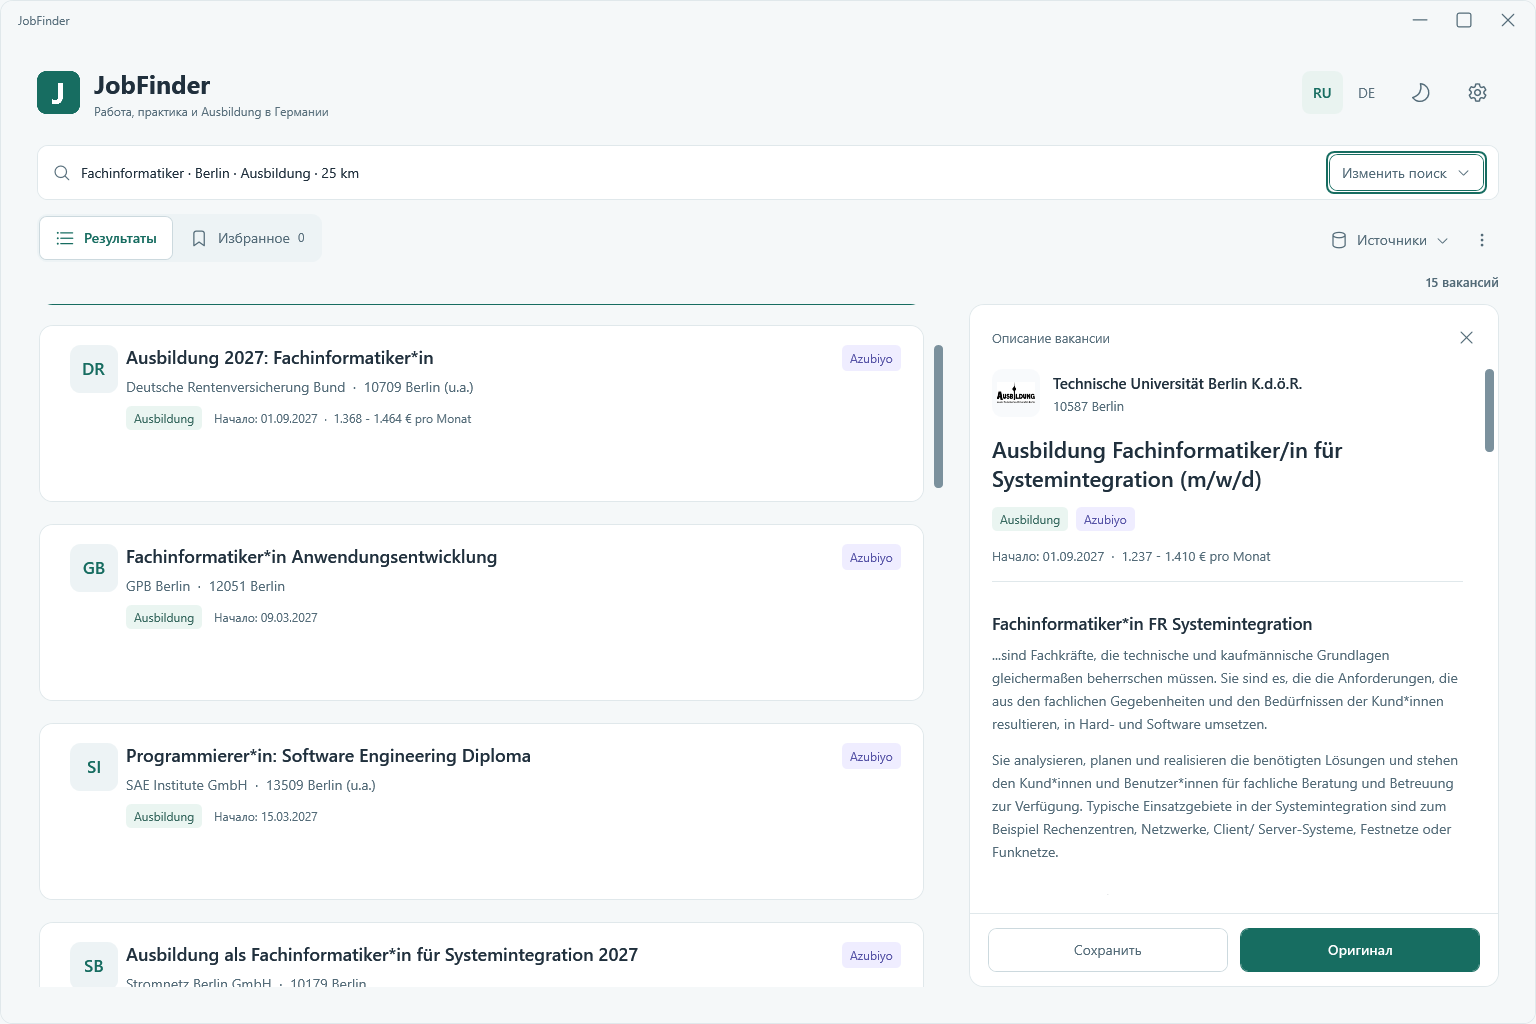
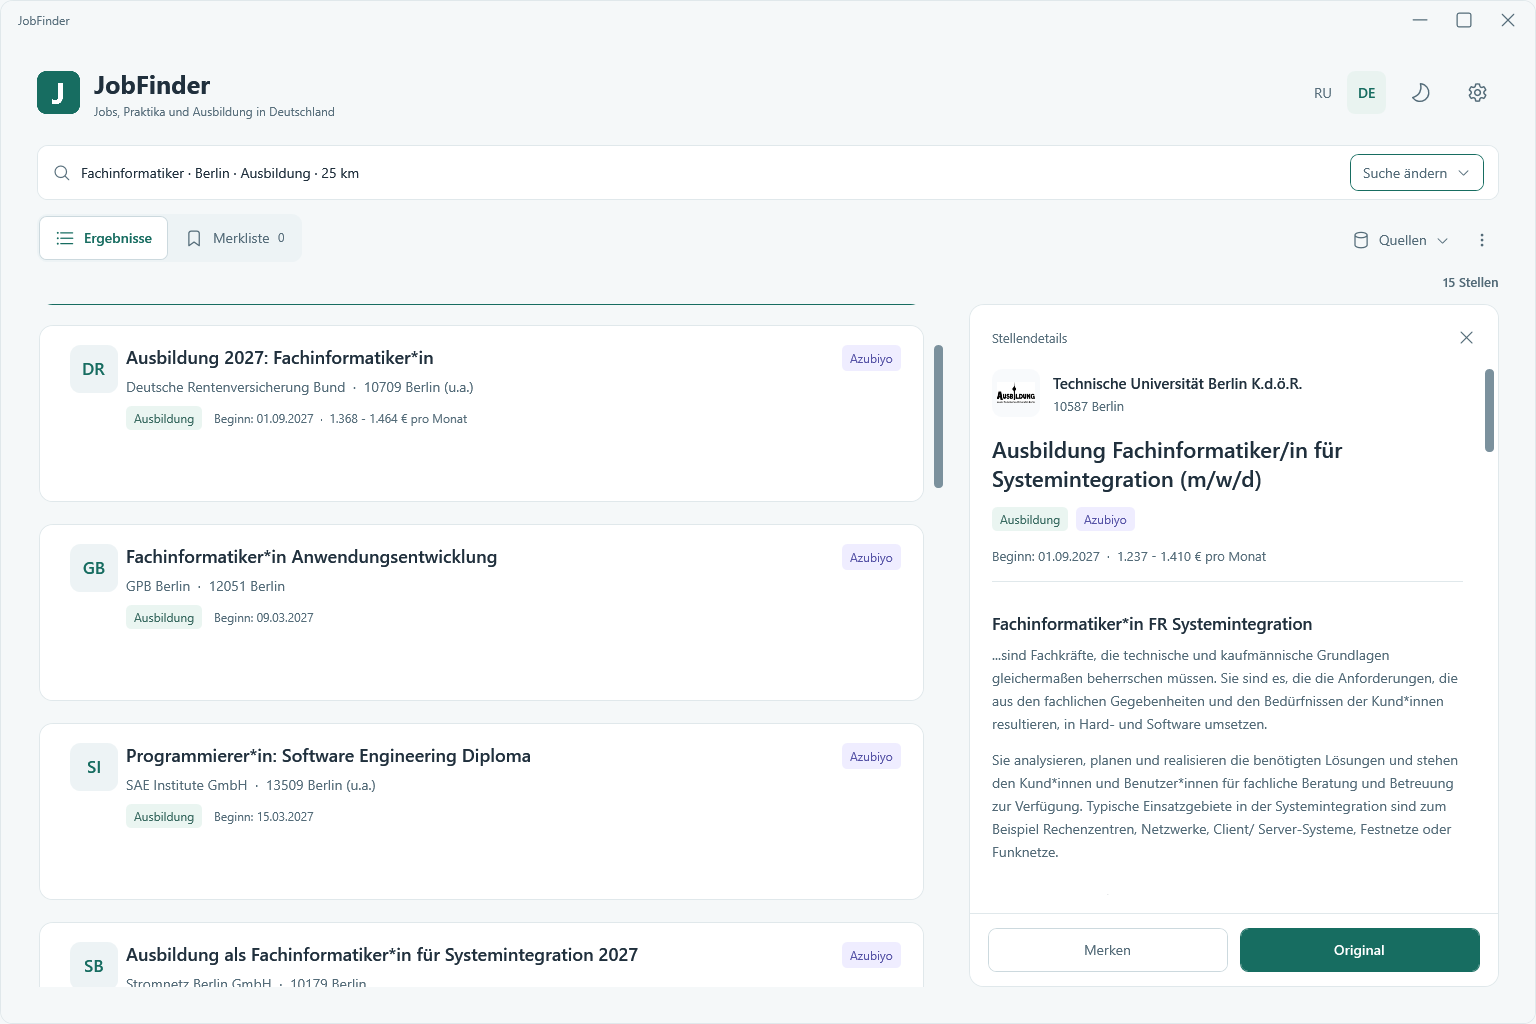
Use German for the product page and fresh application profiles

diff --git a/JobFinder/ViewModel.cs b/JobFinder/ViewModel.cs
@@ -236,7 +236,7 @@ public sealed partial class ViewModel : Observable, IDisposable
         OpenCommand = new(p => { if (p is JobView j) Open(j.Job.Url); });
         CopyCommand = new(p => { if (p is JobView j) { try { Clipboard.SetText(j.Job.Url); Notice = Ui["Copied"]; } catch (System.Runtime.InteropServices.ExternalException) { Notice = Ui["OpenError"]; } } });
         PortalCommand = new(p => { if (p is string id) Open(Links.Portal(id, new(Keyword, City, Radius, Kind))); });
-        LanguageCommand = new(p => { Ui.Language = p?.ToString() ?? "ru"; Profile.Language = Ui.Language; Notice = Ui[IsBusy ? "Searching" : "Ready"]; Save(); Refresh(); foreach (var s in Sources) s.Refresh(); Detail?.Refresh(); RefreshJobs(); });
+        LanguageCommand = new(p => { Ui.Language = p?.ToString() ?? "de"; Profile.Language = Ui.Language; Notice = Ui[IsBusy ? "Searching" : "Ready"]; Save(); Refresh(); foreach (var s in Sources) s.Refresh(); Detail?.Refresh(); RefreshJobs(); });
         ExampleCommand = new(p => { ApplyQuery(p?.ToString() switch { "internship" => new("Design", "", 25, JobKind.Internship), "apprenticeship" => new("Fachinformatiker", "", 25, JobKind.Apprenticeship), _ => new("Developer", "", 25, JobKind.Job) }); _ = SearchAsync(); });
         RemoveSearchCommand = new(_ => { if (SelectedSearch is not null) { SavedSearches.Remove(SelectedSearch); Profile.Searches = SavedSearches.ToList(); _selectedSearch = null; Changed(nameof(SelectedSearch)); Save(); } }, _ => SelectedSearch is not null);
     }

diff --git a/JobFinder.Tests/Program.cs b/JobFinder.Tests/Program.cs
@@ -12,6 +12,12 @@ async Task<SourceFailure> Fails(Func<Task> action, FailureKind kind)
 }
 try
 {
+    Check(new ProfileStore(Path.Combine(Path.GetTempPath(), "jobfinder-locale-" + Guid.NewGuid().ToString("N"))).Load().Language == "de", "German is the default language for a fresh installation");
+    var languageStore = new ProfileStore(Path.Combine(Path.GetTempPath(), "jobfinder-language-choice-" + Guid.NewGuid().ToString("N")));
+    languageStore.Save(new UserProfile { Language = "ru" });
+    Check(languageStore.Load().Language == "ru", "An existing explicit Russian language choice survives the new German default");
+    languageStore.Save(new UserProfile { Language = "unsupported" });
+    Check(languageStore.Load().Language == "de", "An unsupported saved language falls back to German");
     var azubi = AzubiyoSource.Parse(File.ReadAllText(Path.Combine(fixtures, "azubiyo-filtered.txt")), new("https://www.azubiyo.de/ausbildung/berlin/?subject=Fachinformatiker&location=Berlin&radius=25"));
     Check(azubi.Jobs.Count >= 10 && azubi.Jobs.Any(j => j.Title.Contains("Systemintegration") && j.Company.Contains("Universität Berlin") && j.Location.Contains("Berlin")), "Actual Azubiyo title, company, city parsed");
     Check(azubi.Jobs.Any(j => j.Start == "01.09.2027" && j.Salary.Contains('€')), "Training start and salary preserved separately");

diff --git a/JobFinder/CompactSearchVerification.cs b/JobFinder/CompactSearchVerification.cs
@@ -17,6 +17,7 @@ public partial class App
         logos.Seed(page.Jobs[0].LogoUrl, File.ReadAllBytes(Path.Combine(fixtures, "logo-azubiyo.png")));
         var vm = new ViewModel(Path.Combine(isolated, "compact-profile"), testSources: [new FixtureSource("azubiyo", "Azubiyo", JobKind.Apprenticeship, () => page)], detailService: loader, logos: logos);
         var window = TestWindow(vm); window.AutoLoadEnabled = false;
+        check(vm.Ui.IsDe && vm.Profile.Language == "de", "A fresh application opens in German by default");
         check(window.SearchSurface.IsVisible && !window.CompactSearchBar.IsVisible, "Before a first search, the full search form is available");
         vm.ApplyQuery(new("Fachinformatiker", "Berlin", 25, JobKind.Apprenticeship)); await vm.SearchAsync(); await SettleAsync();
         check(!window.SearchSurface.IsVisible && window.EditSearchButton.IsVisible && window.ResultSourcesButton.IsVisible, "A new search collapses the form while editing and filters remain accessible");

diff --git a/JobFinder/Ui.cs b/JobFinder/Ui.cs
@@ -6,8 +6,8 @@ namespace JobFinder;
 public sealed class Ui : INotifyPropertyChanged
 {
     public event PropertyChangedEventHandler? PropertyChanged;
-    private string _language = "ru";
-    public string Language { get => _language; set { _language = value == "de" ? "de" : "ru"; PropertyChanged?.Invoke(this, new("Item[]")); PropertyChanged?.Invoke(this, new(nameof(IsRu))); PropertyChanged?.Invoke(this, new(nameof(IsDe))); } }
+    private string _language = "de";
+    public string Language { get => _language; set { _language = value == "ru" ? "ru" : "de"; PropertyChanged?.Invoke(this, new("Item[]")); PropertyChanged?.Invoke(this, new(nameof(IsRu))); PropertyChanged?.Invoke(this, new(nameof(IsDe))); } }
     public bool IsRu => Language == "ru";
     public bool IsDe => !IsRu;
     public static string AppVersion => UpdateViewModel.FormatVersion(typeof(App).Assembly.GetName().Version ?? new Version(0, 4, 1));

diff --git a/JobFinder.Core/ProfileStore.cs b/JobFinder.Core/ProfileStore.cs
@@ -32,7 +32,7 @@ public sealed class ProfileStore(string directory)
         var profile = JsonSerializer.Deserialize<UserProfile>(File.ReadAllText(file), Json) ?? throw new JsonException();
         if (profile.Schema != 1 || profile.Favorites is null || profile.Searches is null || profile.EnabledSources is null || profile.LastQuery is null) throw new JsonException();
         profile.Favorites = profile.Favorites.Where(j => Links.IsSafe(j.Url) && !string.IsNullOrWhiteSpace(j.Title)).DistinctBy(j => j.Key).ToList();
-        profile.Language = profile.Language == "de" ? "de" : "ru";
+        profile.Language = profile.Language == "ru" ? "ru" : "de";
         profile.Theme = profile.Theme == "light" ? "light" : "dark";
         profile.KnownSourceIds ??= [];
         profile.LastQuery = profile.LastQuery.Clean();

diff --git a/JobFinder.Core/Models.cs b/JobFinder.Core/Models.cs
@@ -55,7 +55,7 @@ public sealed record SavedSearch(string Name, SearchQuery Query);
 public sealed record UserProfile
 {
     public int Schema { get; init; } = 1;
-    public string Language { get; set; } = "ru";
+    public string Language { get; set; } = "de";
     public string Theme { get; set; } = "dark";
     public SearchQuery LastQuery { get; set; } = new();
     public List<string> EnabledSources { get; set; } = SourceCatalog.FeedIds();

diff --git a/README.md b/README.md
@@ -1,60 +1,62 @@
 <p align="center">
-  <img src="https://raw.githubusercontent.com/4ek1st/JobFinder/main/assets/readme/hero.svg" alt="JobFinder — найдите своё место в Германии. Работа, Praktikum и Ausbildung." width="100%">
+  <img src="https://raw.githubusercontent.com/4ek1st/JobFinder/main/assets/readme/hero.svg" alt="JobFinder — finde deinen Platz in Deutschland. Jobs, Praktikum und Ausbildung." width="100%">
 </p>
 
 <p align="center">
-  Ищите вакансии, сравнивайте предложения и сохраняйте то, что подходит вам.<br>
-  Всё в одном спокойном и понятном интерфейсе.
+  Stellen entdecken, Angebote vergleichen und passende Möglichkeiten speichern.<br>
+  Alles in einer übersichtlichen App.
 </p>
 
 <p align="center">
   <a href="https://github.com/4ek1st/JobFinder/releases/latest/download/JobFinder-portable-win-x64.zip">
-    <img src="https://raw.githubusercontent.com/4ek1st/JobFinder/main/assets/readme/download.svg" alt="Скачать JobFinder для Windows" width="306" height="60">
+    <img src="https://raw.githubusercontent.com/4ek1st/JobFinder/main/assets/readme/download.svg" alt="JobFinder für Windows herunterladen" width="306" height="60">
   </a>
-  <br><sub>Windows 10 / 11 · Русский / Deutsch · Без установки</sub>
+  <br><sub>Windows 10 / 11 (64 Bit) · Deutsch / Russisch · Ohne Installation</sub>
 </p>
 
-<p align="center"><sub>Как выглядит JobFinder</sub></p>
+<p align="center"><sub>So sieht JobFinder aus</sub></p>
 
 <picture>
   <source media="(prefers-color-scheme: light)" srcset="https://raw.githubusercontent.com/4ek1st/JobFinder/main/assets/readme/app-light.png">
   <source media="(prefers-color-scheme: dark)" srcset="https://raw.githubusercontent.com/4ek1st/JobFinder/main/assets/readme/app-dark.png">
-  <img src="https://raw.githubusercontent.com/4ek1st/JobFinder/main/assets/readme/app-dark.png" alt="JobFinder: список вакансий слева и подробное описание выбранного предложения справа." width="100%">
+  <img src="https://raw.githubusercontent.com/4ek1st/JobFinder/main/assets/readme/app-dark.png" alt="JobFinder: Stellenliste links und die ausführliche Beschreibung der ausgewählten Stelle rechts." width="100%">
 </picture>
 
 <p align="center">
-  <a href="https://github.com/4ek1st/JobFinder/releases/latest">Что нового</a> · <a href="README.ru.md">Как пользоваться</a>
+  <a href="https://github.com/4ek1st/JobFinder/releases/latest">Was ist neu?</a> · <a href="README.de.md">Kurzanleitung</a>
 </p>
 
-## Меньше вкладок, больше подходящих предложений
+## Weniger Tabs. Mehr passende Stellen.
 
-| Найти своё | Посмотреть подробнее |
+| Passendes finden | Mehr erfahren |
 | :--- | :--- |
-| **Работа, Praktikum и Ausbildung**<br>Выберите направление, профессию и город. | **Описание рядом с вакансией**<br>Условия, требования и доступные контакты открываются справа. |
-| **Новые предложения при прокрутке**<br>Лента подгружается автоматически. | **Избранное под рукой**<br>Сохраните интересные варианты и вернитесь к ним позже. |
-| **Ваши источники**<br>Выбирайте площадки, на которых хотите искать. | **Оригинал в один клик**<br>Откройте объявление на сайте и откликнитесь работодателю. |
+| **Jobs, Praktikum und Ausbildung**<br>Wähle einen Bereich, einen Beruf und einen Ort. | **Details direkt daneben**<br>Beschreibung, Anforderungen und verfügbare Kontakte öffnen sich rechts. |
+| **Neue Stellen beim Scrollen**<br>Weitere Angebote werden automatisch geladen. | **Favoriten griffbereit**<br>Speichere interessante Stellen und sieh sie dir später wieder an. |
+| **Deine Quellen**<br>Wähle die Portale aus, auf denen du suchen möchtest. | **Zum Original mit einem Klick**<br>Öffne die Anzeige auf der Website und bewirb dich beim Arbeitgeber. |
 
-## Поиск по всей Германии
+## Suche in ganz Deutschland
 
-**21 источник в общей ленте** — среди них BA Jobsuche, Azubiyo, Ausbildung.de, Praktikum.info, Arbeitnow, AUBI-plus и Workwise.
+**21 Quellen in der gemeinsamen Stellenliste** — darunter BA Jobsuche, Azubiyo, Ausbildung.de, Praktikum.info, Arbeitnow, AUBI-plus und Workwise.
 
-Ещё **12 площадок для поиска на их сайтах**, включая StepStone и Indeed. Выбор источников сохраняется между запусками.
+Dazu kommen **12 weitere Portale mit Suche auf ihrer Website**, darunter StepStone und Indeed. Deine Quellenauswahl bleibt beim nächsten Start erhalten.
 
-## Начните с трёх шагов
+## In drei Schritten starten
 
-1. **Скачайте** архив по кнопке выше.
-2. **Распакуйте** его в удобную папку и откройте **JobFinder.exe**.
-3. **Введите профессию и город**, выберите тип предложения и нажмите **«Найти»**.
+1. **Herunterladen:** Nutze den grünen Download-Button oben.
+2. **Entpacken:** Öffne den entpackten Ordner und starte **JobFinder.exe**.
+3. **Suchen:** Gib einen Beruf und einen Ort ein, wähle die Art der Stelle und klicke auf **„Suchen“**.
 
-## Удобно каждый день
+## So, wie es für dich passt
 
-Переключайтесь между тёмной и светлой темой, выбирайте русский или немецкий язык. После поиска форму можно свернуть, чтобы оставить больше места вакансиям.
+Wähle zwischen dunklem und hellem Design. Die App startet auf Deutsch; Russisch ist ebenfalls verfügbar. Nach der Suche kannst du die Suchfelder einklappen, damit mehr Platz für die Stellen bleibt.
 
-Когда доступна новая версия, справа сверху появляется **значок скачивания**. Нажмите его — JobFinder обновится и перезапустится, сохранив избранное и настройки.
+Ein **gelber Punkt am Zahnrad** weist auf ein Problem mit einer Quelle hin. Unter **„Einstellungen → Quellenstatus“** findest du den Grund und kannst die Quelle erneut laden.
+
+Sobald eine neue Version verfügbar ist, erscheint oben rechts ein **Download-Symbol**. Ein Klick aktualisiert JobFinder und startet die App neu. Favoriten und Einstellungen bleiben erhalten.
 
 <br>
 
 <p align="center">
-  <b>Ваш следующий шаг начинается с поиска.</b><br><br>
-  <a href="https://github.com/4ek1st/JobFinder/releases/latest/download/JobFinder-portable-win-x64.zip">Скачать JobFinder</a>
+  <b>Dein nächster Schritt beginnt mit einer Suche.</b><br><br>
+  <a href="https://github.com/4ek1st/JobFinder/releases/latest/download/JobFinder-portable-win-x64.zip">JobFinder herunterladen</a>
 </p>

diff --git a/README.de.md b/README.de.md
@@ -1,0 +1,49 @@
+# JobFinder — Kurzanleitung
+
+Jobs, Praktikum und Ausbildung in Deutschland an einem Ort.
+
+[Für Windows herunterladen](https://github.com/4ek1st/JobFinder/releases/latest/download/JobFinder-portable-win-x64.zip) · [Zur Startseite](https://github.com/4ek1st/JobFinder)
+
+## Erster Start
+
+1. Lade das Archiv herunter und entpacke es in einen Ordner deiner Wahl.
+2. Öffne **JobFinder.exe**. Eine Installation ist nicht nötig.
+3. Gib einen Beruf oder eine Firma und einen Ort oder eine Postleitzahl ein. Klicke auf **„Suchen“**.
+
+JobFinder läuft auf Windows 10 und 11 mit 64 Bit. Für neue Stellenangebote ist eine Internetverbindung nötig. Die App startet auf Deutsch.
+
+## Die passende Stelle finden
+
+Wähle **„Arbeit“**, **„Praktikum“**, **„Ausbildung“** oder **„Alle“**. Unter **„Filter“** kannst du den Umkreis anpassen. Unter **„Quellen“** wählst du die gewünschten Portale aus.
+
+21 Quellen liefern Angebote für die gemeinsame Stellenliste. Weitere 12 Portale, darunter StepStone und Indeed, öffnen die Suche auf ihrer Website. Manche Quellen benötigen einen Ortsnamen oder eine Postleitzahl. Hinweise dazu findest du in der Quellenauswahl.
+
+Scrolle durch die Liste: Weitere Angebote werden automatisch geladen. Mit **„Einklappen“** schließt du die Suchfelder und schaffst Platz. **„Suche ändern“** öffnet sie wieder.
+
+## Details ansehen und Favoriten speichern
+
+Klicke auf eine Stellenkarte. Rechts erscheinen die Beschreibung, Anforderungen, Bedingungen und Kontaktdaten, sofern die Quelle sie bereitstellt. In einem schmalen Fenster nimmt die Beschreibung mehr Platz ein; du kannst sie schließen und zur Liste zurückkehren.
+
+Wenn du mit der Maus über eine Karte fährst, erscheinen **„Merken“** und **„Original“**. Beide Aktionen sind auch in der Stellenbeschreibung verfügbar. **„Original“** öffnet die Anzeige auf der Website, auf der du dich bewerben kannst.
+
+Gemerkte Stellen findest du unter **„Favoriten“**. Sie bleiben nach dem Schließen der App gespeichert. Bereits geladene Beschreibungen deiner Favoriten kannst du auch ohne Internet lesen.
+
+## Quellenstatus prüfen
+
+Ein **gelber Punkt am Zahnrad** zeigt an, dass eine Quelle Aufmerksamkeit benötigt. Öffne **„Einstellungen → Quellenstatus“**, um den Grund zu sehen und die Quelle erneut zu laden. Problematische Quellen stehen oben. Nach einem erfolgreichen erneuten Laden verschwindet der Punkt.
+
+![Quellenstatus in JobFinder](https://raw.githubusercontent.com/4ek1st/JobFinder/main/assets/readme/source-status.png)
+
+## Sprache und Design wählen
+
+**RU / DE** wechselt die Sprache. Das **Sonnen- oder Mondsymbol** schaltet zwischen hellem und dunklem Design um. Deine Auswahl wird gespeichert. Eine bereits gespeicherte Sprache bleibt auch bei einem Update erhalten.
+
+## Updates installieren
+
+Wenn eine neue Version bereitsteht, erscheint oben rechts ein **Download-Symbol**. Ein Klick lädt das Update und startet JobFinder neu. Favoriten und Einstellungen bleiben erhalten.
+
+Während des Downloads wird der Fortschritt angezeigt. Du kannst den Download abbrechen und später erneut starten. Eine manuelle Update-Prüfung findest du unter **„Über JobFinder“**.
+
+Möchtest du JobFinder auf einen anderen Computer mitnehmen, kopiere den gesamten Programmordner einschließlich **data**. Darin sind deine Favoriten und Einstellungen gespeichert.
+
+[Zurück zur JobFinder-Seite](https://github.com/4ek1st/JobFinder)

diff --git a/CHANGELOG.md b/CHANGELOG.md
@@ -1,10 +1,10 @@
 # JobFinder 0.5.2 — 2026-10-12
 
-- Больше места вакансиям: информация об охвате и предупреждения источников перенесены в «Настройки → Состояние источников».
-- Жёлтая точка у шестерёнки появляется при проблеме. В настройках видны причина и возможность повтора; после успешного ответа точка исчезает.
-- Повторная загрузка и её отмена сохраняют уже найденные вакансии. Ошибки отключённых источников не вызывают предупреждение.
-- Новая страница программы на GitHub: баннер, скриншот, кнопка скачивания и краткое руководство.
-
+- Mehr Platz für Stellen: Hinweise zur Abdeckung und Quellenprobleme stehen jetzt unter „Einstellungen → Quellenstatus“.
+- Ein gelber Punkt am Zahnrad weist auf ein Problem hin. Nach erfolgreichem erneutem Laden verschwindet er.
+- Erneutes Laden und Abbrechen erhalten bereits gefundene Stellen. Deaktivierte Quellen lösen keinen Hinweis aus.
+- Deutsch ist die Standardsprache für neue Installationen. Eine bereits gespeicherte Sprachauswahl bleibt erhalten.
+- Neue GitHub-Seite auf Deutsch mit Banner, Screenshots, Download-Button und Kurzanleitung.
 # JobFinder 0.5.1 — 2026-10-12
 
 - Fixed the production GitHub CDN path `/github-production-release-asset/`, discovered during the anonymous public update proof. The older CDN format remains supported; HTTPS host, signed metadata, length and hashes remain enforced.
